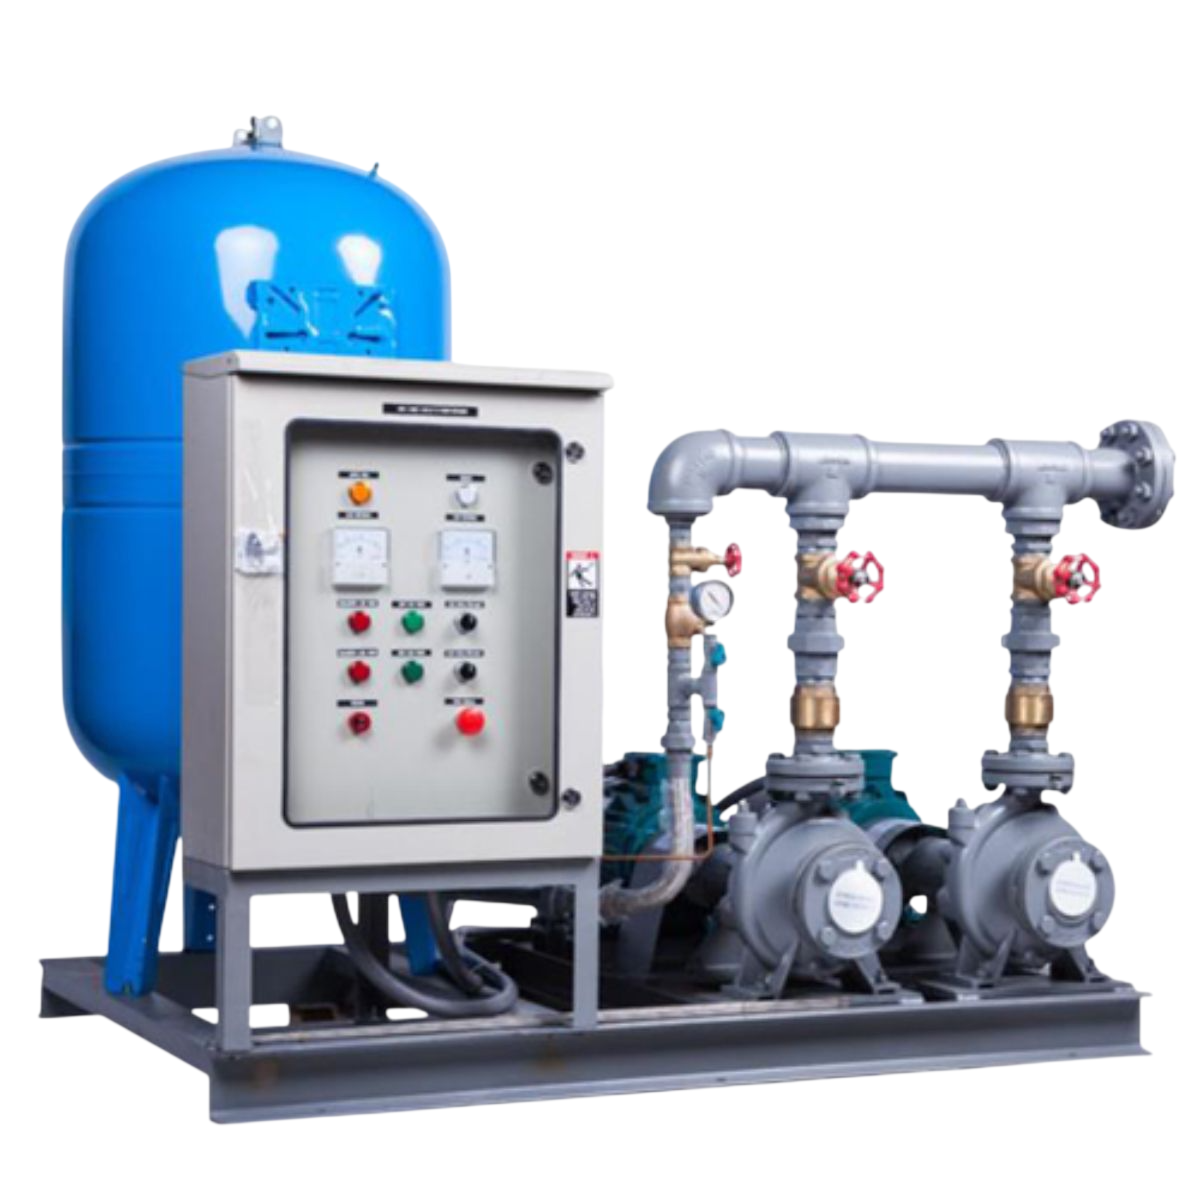
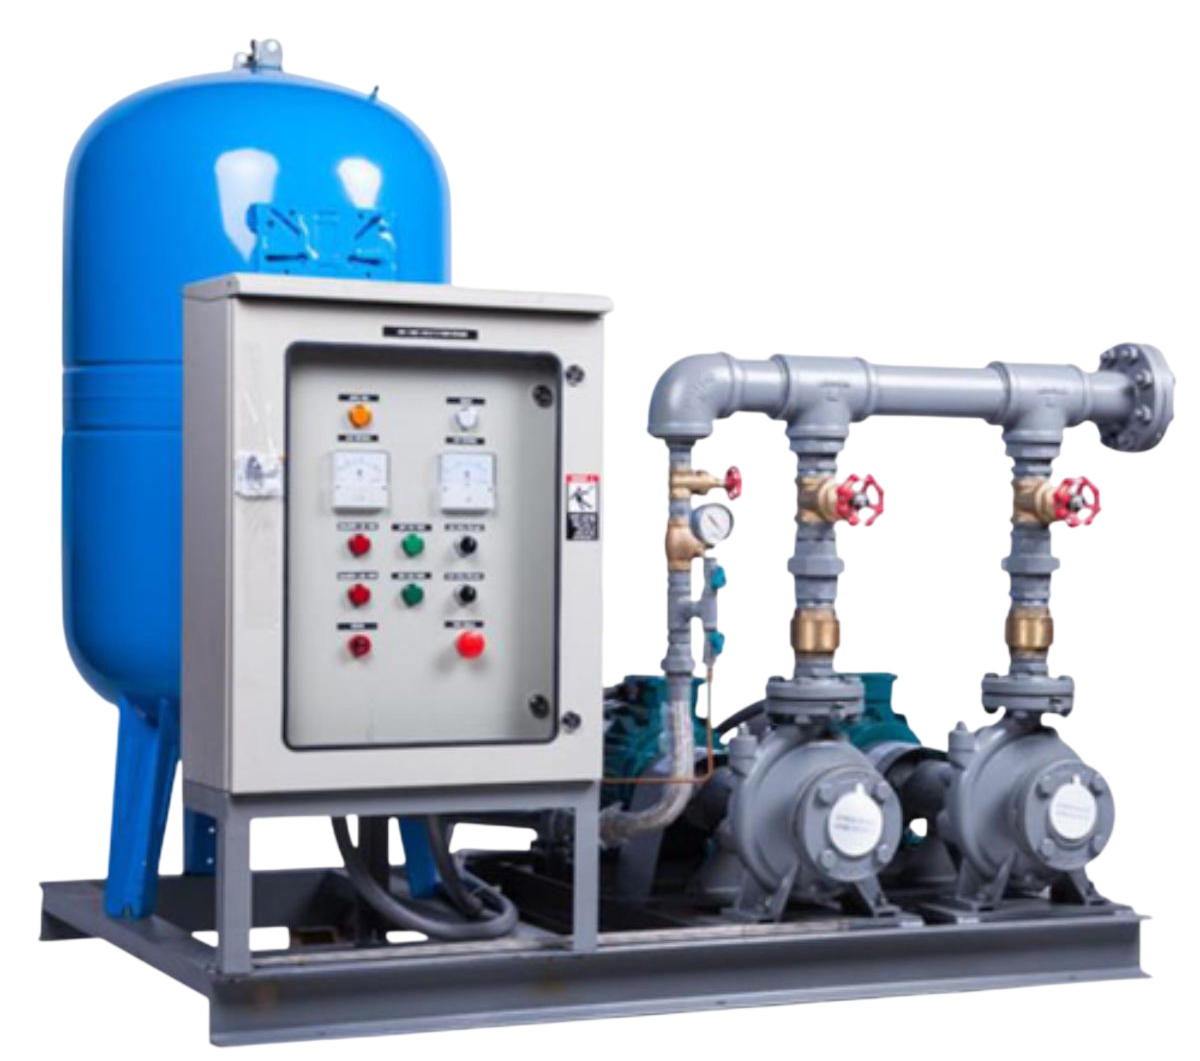
edit (slide5) : change bg and add base

diff --git a/components/slide/slide5.component.tsx b/components/slide/slide5.component.tsx
@@ -6,12 +6,13 @@ import { ReactNode } from "react"
 import product1 from "../../public/slide/slide5/prop1.png"
 import product2 from "../../public/slide/slide5/prop2.png"
 import product3 from "../../public/slide/slide5/prop3.png"
+import bg from "../../public/slide/slide5/bg.png"
 import Link from "next/link"
 
 export default function Slide5() {
     return (
         <div className=" w-full flex justify-center h-screen lg:max-h-192 lg:h-full">
-            <Link className="relative  flex flex-col justify-around w-full h-screen lg:h-full pt-22 lg:pt-0 max-w-7xl items-center *:row-span-1  " href={{
+            <Link className="relative  flex flex-col justify-around w-full h-screen lg:h-full pt-16 lg:pt-0 max-w-7xl items-center *:row-span-1  " href={{
                 pathname: "/products/", query: {
                     type: "WATER PUMP"
                 }
@@ -27,15 +28,15 @@ export default function Slide5() {
 
 function Title() {
     return (
-        <div className=" text-center lg:text-end lg:absolute top-[15%] right-[3%]">
+        <div className=" text-center lg:text-end lg:absolute top-[15%] right-[3%] ">
             <MotionFadeUp className=" text-[38px] md:text-[48px] font-bold">ปั๊มน้ำอุตสาหกรรมคุณภาพสูง </MotionFadeUp>
-            <MotionFadeUp delay={.2} className=" text-[20px] md:text-[40px]">ขับเคลื่อนทุกระบบอย่างมั่นใจ</MotionFadeUp>
+            <MotionFadeUp delay={.2} className=" text-[20px] md:text-[40px] text-shadow-2xl shadow-white">ขับเคลื่อนทุกระบบอย่างมั่นใจ</MotionFadeUp>
         </div>
     )
 }
 function Property() {
     return (
-        <div className=" grid grid-cols-2 flex-wrap lg:flex-col p-4 lg:gap-2  md:p-8 md:px-18 md:gap-4 lg:px-8 backdrop-blur-xl lg:backdrop-blur-none lg:absolute lg:grid-cols-1 lg:top-[45%] lg:right-[3%]">
+        <div className=" grid grid-cols-2 flex-wrap lg:flex-col p-4 gap-2 lg:gap-4  md:p-8 md:px-18 md:gap-4 lg:px-8 backdrop-blur-xl lg:backdrop-blur-none lg:absolute lg:grid-cols-1 lg:top-[45%] lg:right-[3%]">
             <Option delay={.2} label="โซลูชันปั๊มน้ำที่คุ้มค่า เพื่อทุกธุรกิจ"> <Droplets /></Option>
             <Option delay={.3} label="ครบทุกความต้องการด้านปั๊มน้ำอุตสาหกรรม"> <Shield /></Option>
             <Option delay={.4} label="คุณภาพมาตรฐาน พร้อมบริการโดยผู้เชี่ยวชาญ"> <Trophy /> </Option>
@@ -46,8 +47,9 @@ function Property() {
 
 function Option({ children, label, delay = 0 }: { label?: string, children: ReactNode, delay?: number }) {
     return (
-        <MotionFadeUp delay={delay} className=" flex items-center  text-end justify-end gap-2 md:gap-4 ">
-            <span className=" text-gray-4 text-[8px] md:text-[18px] lg:text-[14px]">{label}</span>
+        <MotionFadeUp delay={delay} className=" flex items-center  text-end justify-end gap-2 md:gap-2 bg-white rounded-4xl md:p-2 lg:p-0 ">
+
+            <span className=" text-gray-4 text-[8px] md:text-[16px] lg:text-[14px] pl-8">{label}</span>
             <div className=" w-fit p-1 md:p-2 rounded-full text-white bg-orange  md:scale-90 scale-50">
                 {children}
             </div>
@@ -60,25 +62,38 @@ function ListProduct() {
         <div className=" row-span-2 w-[80%] flex flex-row flex-wrap -z-10 *:w-[50%] items-center gap-0 justify-center h-fit md:w-[80%] lg:absolute  lg:w-[50%] lg:left-[5%]  lg:top-1/2 lg:-translate-y-2/5 ">
             <Product delay={.1} src={product1} label="บูสเตอร์ปั๊มและทรานเฟอร์ปั๊ม" subLable="(Booster Pump & Transfer Pump) " />
             <Product delay={.1} src={product2} label="ปั๊มน้ำแบบสปลิทเคส" subLable="(Split Casing Pump)" />
-            <Product delay={.1} src={product3} label="ปั๊มต่อยอยl" subLable="(Coupling)" />
+            <Product delay={.1} src={product3} label="ปั๊มต่อยอย" subLable="(Coupling)" />
         </div>
     )
 }
 
 function Product({ label, subLable, src, delay = 0 }: { src: StaticImport, label?: string, subLable?: string, delay?: number }) {
     return (
-        <MotionFadeZoomOut delay={delay} className=" flex flex-col justify-center items-center w-fit h-fit ">
-            < Image className=" w-75 md:w-87.5 lg:w-[80%]" src={src} alt="" />
-            <span className=" text-gray-4 text-[10px] md:text-[14px]">{label}</span>
-            <span className=" text-gray-4 text-[8px] md:text-[12px]">{subLable}</span>
+        <MotionFadeZoomOut delay={delay} className=" flex flex-col justify-center items-center w-fit relative h-fit pb-[2vh] gap-[3vh]  lg:pb-[2vw]  lg:gap-[3vw]">
+            <div className=" absolute w-[90%] h-full bottom-0 ">
+                <div className=" relative w-full h-full *:absolute *:h-[7vh] lg:*:h-[6vw] *:w-full ">
+                    <div className=" bottom-[7vh] lg:bottom-[6vw] z-0 rounded-[50%_50%_50%_50%] bg-gray-2"></div>
+                    <div className=" bottom-[3.5vh] lg:bottom-[3vw] -z-10 bg-linear-to-r/hsl from-blue-1 to-blue-2 "></div>
+                    <div className="shadow-[-10px_12px_32px_-6px_rgba(0,0,0,0.75)]  bottom-[0%] -z-20 rounded-[50%_50%_50%_50%] bg-gray-4 bg-linear-to-r/hsl from-blue-1 to-blue-2  "></div>
+                </div>
+            </div>
+            <div className=" w-[80%]  z-10  relative overflow-hidden rounded-[0%_0%_25%_18%]">
+                < Image className=" w-full h-full" src={src} alt="" />
+                {/* < Image className=" absolute -bottom-1/2  opacity-50 -z-10 w-full h-full " src={src} alt="" /> */}
+            </div>
+            <div className=" flex flex-col justify-center items-center">
+                <span className=" text-gray-1 text-[8px] md:text-[14px] z-10">{label}</span>
+                <span className=" text-gray-1 text-[6px] md:text-[12px] z-10">{subLable}</span>
+            </div>
         </MotionFadeZoomOut >
     )
 
 }
 function Background() {
     return (
-        <MotionFade className=" *:absolute *:top-0 *:left-0 *:w-full *:h-full -z-20">
-            <svg className=" scale-140 w-full h-full opacity-30 lg:opacity-10" xmlns='http://www.w3.org/2000/svg' width='276' height='276' viewBox='0 0 800 800'><rect fill='#FFFFFF' width='800' height='800' /><g fill='none' stroke='#000844' strokeWidth='1.5'><path d='M769 229L1037 260.9M927 880L731 737 520 660 309 538 40 599 295 764 126.5 879.5 40 599-197 493 102 382-31 229 126.5 79.5-69-63' /><path d='M-31 229L237 261 390 382 603 493 308.5 537.5 101.5 381.5M370 905L295 764' /><path d='M520 660L578 842 731 737 840 599 603 493 520 660 295 764 309 538 390 382 539 269 769 229 577.5 41.5 370 105 295 -36 126.5 79.5 237 261 102 382 40 599 -69 737 127 880' /><path d='M520-140L578.5 42.5 731-63M603 493L539 269 237 261 370 105M902 382L539 269M390 382L102 382' /><path d='M-222 42L126.5 79.5 370 105 539 269 577.5 41.5 927 80 769 229 902 382 603 493 731 737M295-36L577.5 41.5M578 842L295 764M40-201L127 80M102 382L-261 269' /></g><g fill='#090955'><circle cx='769' cy='229' r='5' /><circle cx='539' cy='269' r='5' /><circle cx='603' cy='493' r='5' /><circle cx='731' cy='737' r='5' /><circle cx='520' cy='660' r='5' /><circle cx='309' cy='538' r='5' /><circle cx='295' cy='764' r='5' /><circle cx='40' cy='599' r='5' /><circle cx='102' cy='382' r='5' /><circle cx='127' cy='80' r='5' /><circle cx='370' cy='105' r='5' /><circle cx='578' cy='42' r='5' /><circle cx='237' cy='261' r='5' /><circle cx='390' cy='382' r='5' /></g></svg>
+        <MotionFade className=" *:absolute *:top-0 *:left-0 *:w-full *:h-full -z-20 ">
+            <Image src={bg} alt="bg-water-pump-slide" className=" object-top " />
+            {/* <svg className=" scale-140 w-full h-full opacity-30 lg:opacity-10" xmlns='http://www.w3.org/2000/svg' width='276' height='276' viewBox='0 0 800 800'><rect fill='#FFFFFF' width='800' height='800' /><g fill='none' stroke='#000844' strokeWidth='1.5'><path d='M769 229L1037 260.9M927 880L731 737 520 660 309 538 40 599 295 764 126.5 879.5 40 599-197 493 102 382-31 229 126.5 79.5-69-63' /><path d='M-31 229L237 261 390 382 603 493 308.5 537.5 101.5 381.5M370 905L295 764' /><path d='M520 660L578 842 731 737 840 599 603 493 520 660 295 764 309 538 390 382 539 269 769 229 577.5 41.5 370 105 295 -36 126.5 79.5 237 261 102 382 40 599 -69 737 127 880' /><path d='M520-140L578.5 42.5 731-63M603 493L539 269 237 261 370 105M902 382L539 269M390 382L102 382' /><path d='M-222 42L126.5 79.5 370 105 539 269 577.5 41.5 927 80 769 229 902 382 603 493 731 737M295-36L577.5 41.5M578 842L295 764M40-201L127 80M102 382L-261 269' /></g><g fill='#090955'><circle cx='769' cy='229' r='5' /><circle cx='539' cy='269' r='5' /><circle cx='603' cy='493' r='5' /><circle cx='731' cy='737' r='5' /><circle cx='520' cy='660' r='5' /><circle cx='309' cy='538' r='5' /><circle cx='295' cy='764' r='5' /><circle cx='40' cy='599' r='5' /><circle cx='102' cy='382' r='5' /><circle cx='127' cy='80' r='5' /><circle cx='370' cy='105' r='5' /><circle cx='578' cy='42' r='5' /><circle cx='237' cy='261' r='5' /><circle cx='390' cy='382' r='5' /></g></svg> */}
         </MotionFade>
     )
 

diff --git a/app/page.tsx b/app/page.tsx
@@ -5,10 +5,10 @@ export default function Home() {
   return (
     <div className="flex flex-col items-center w-full min-h-full ">
       <AutoSlide >
-        <Slide1 />
+        {/* <Slide1 />
         <Slide2 />
         <Slide3 />
-        <Slide4 />
+        <Slide4 /> */}
         <Slide5 />
       </AutoSlide>
       <Category />

diff --git a/motion/motion.tsx b/motion/motion.tsx
@@ -132,7 +132,7 @@ export function MotionFadeUp({
         <motion.div
             initial={{ opacity: 0, y: 100 }}
             whileInView={{ opacity: 1, y: 0 }}
-            viewport={{ once, amount: .1 }}
+            viewport={{ once }}
             transition={{
                 duration: 0.5,
                 delay: delay + .3,

diff --git a/app/globals.css b/app/globals.css
@@ -26,6 +26,8 @@
   --color-gray-4: #636363;
   --color-gray-5: #2A2A2A;
   --color-gray-6: #202020;
+  --color-blue-1: #091524;
+  --color-blue-2: #a2a2a2;
   --color-green-bg: #959a76;
   --animate-open-down: open-down 3s ease-in;
   --animate-wiggle: wiggle 2s ease-in-out;
